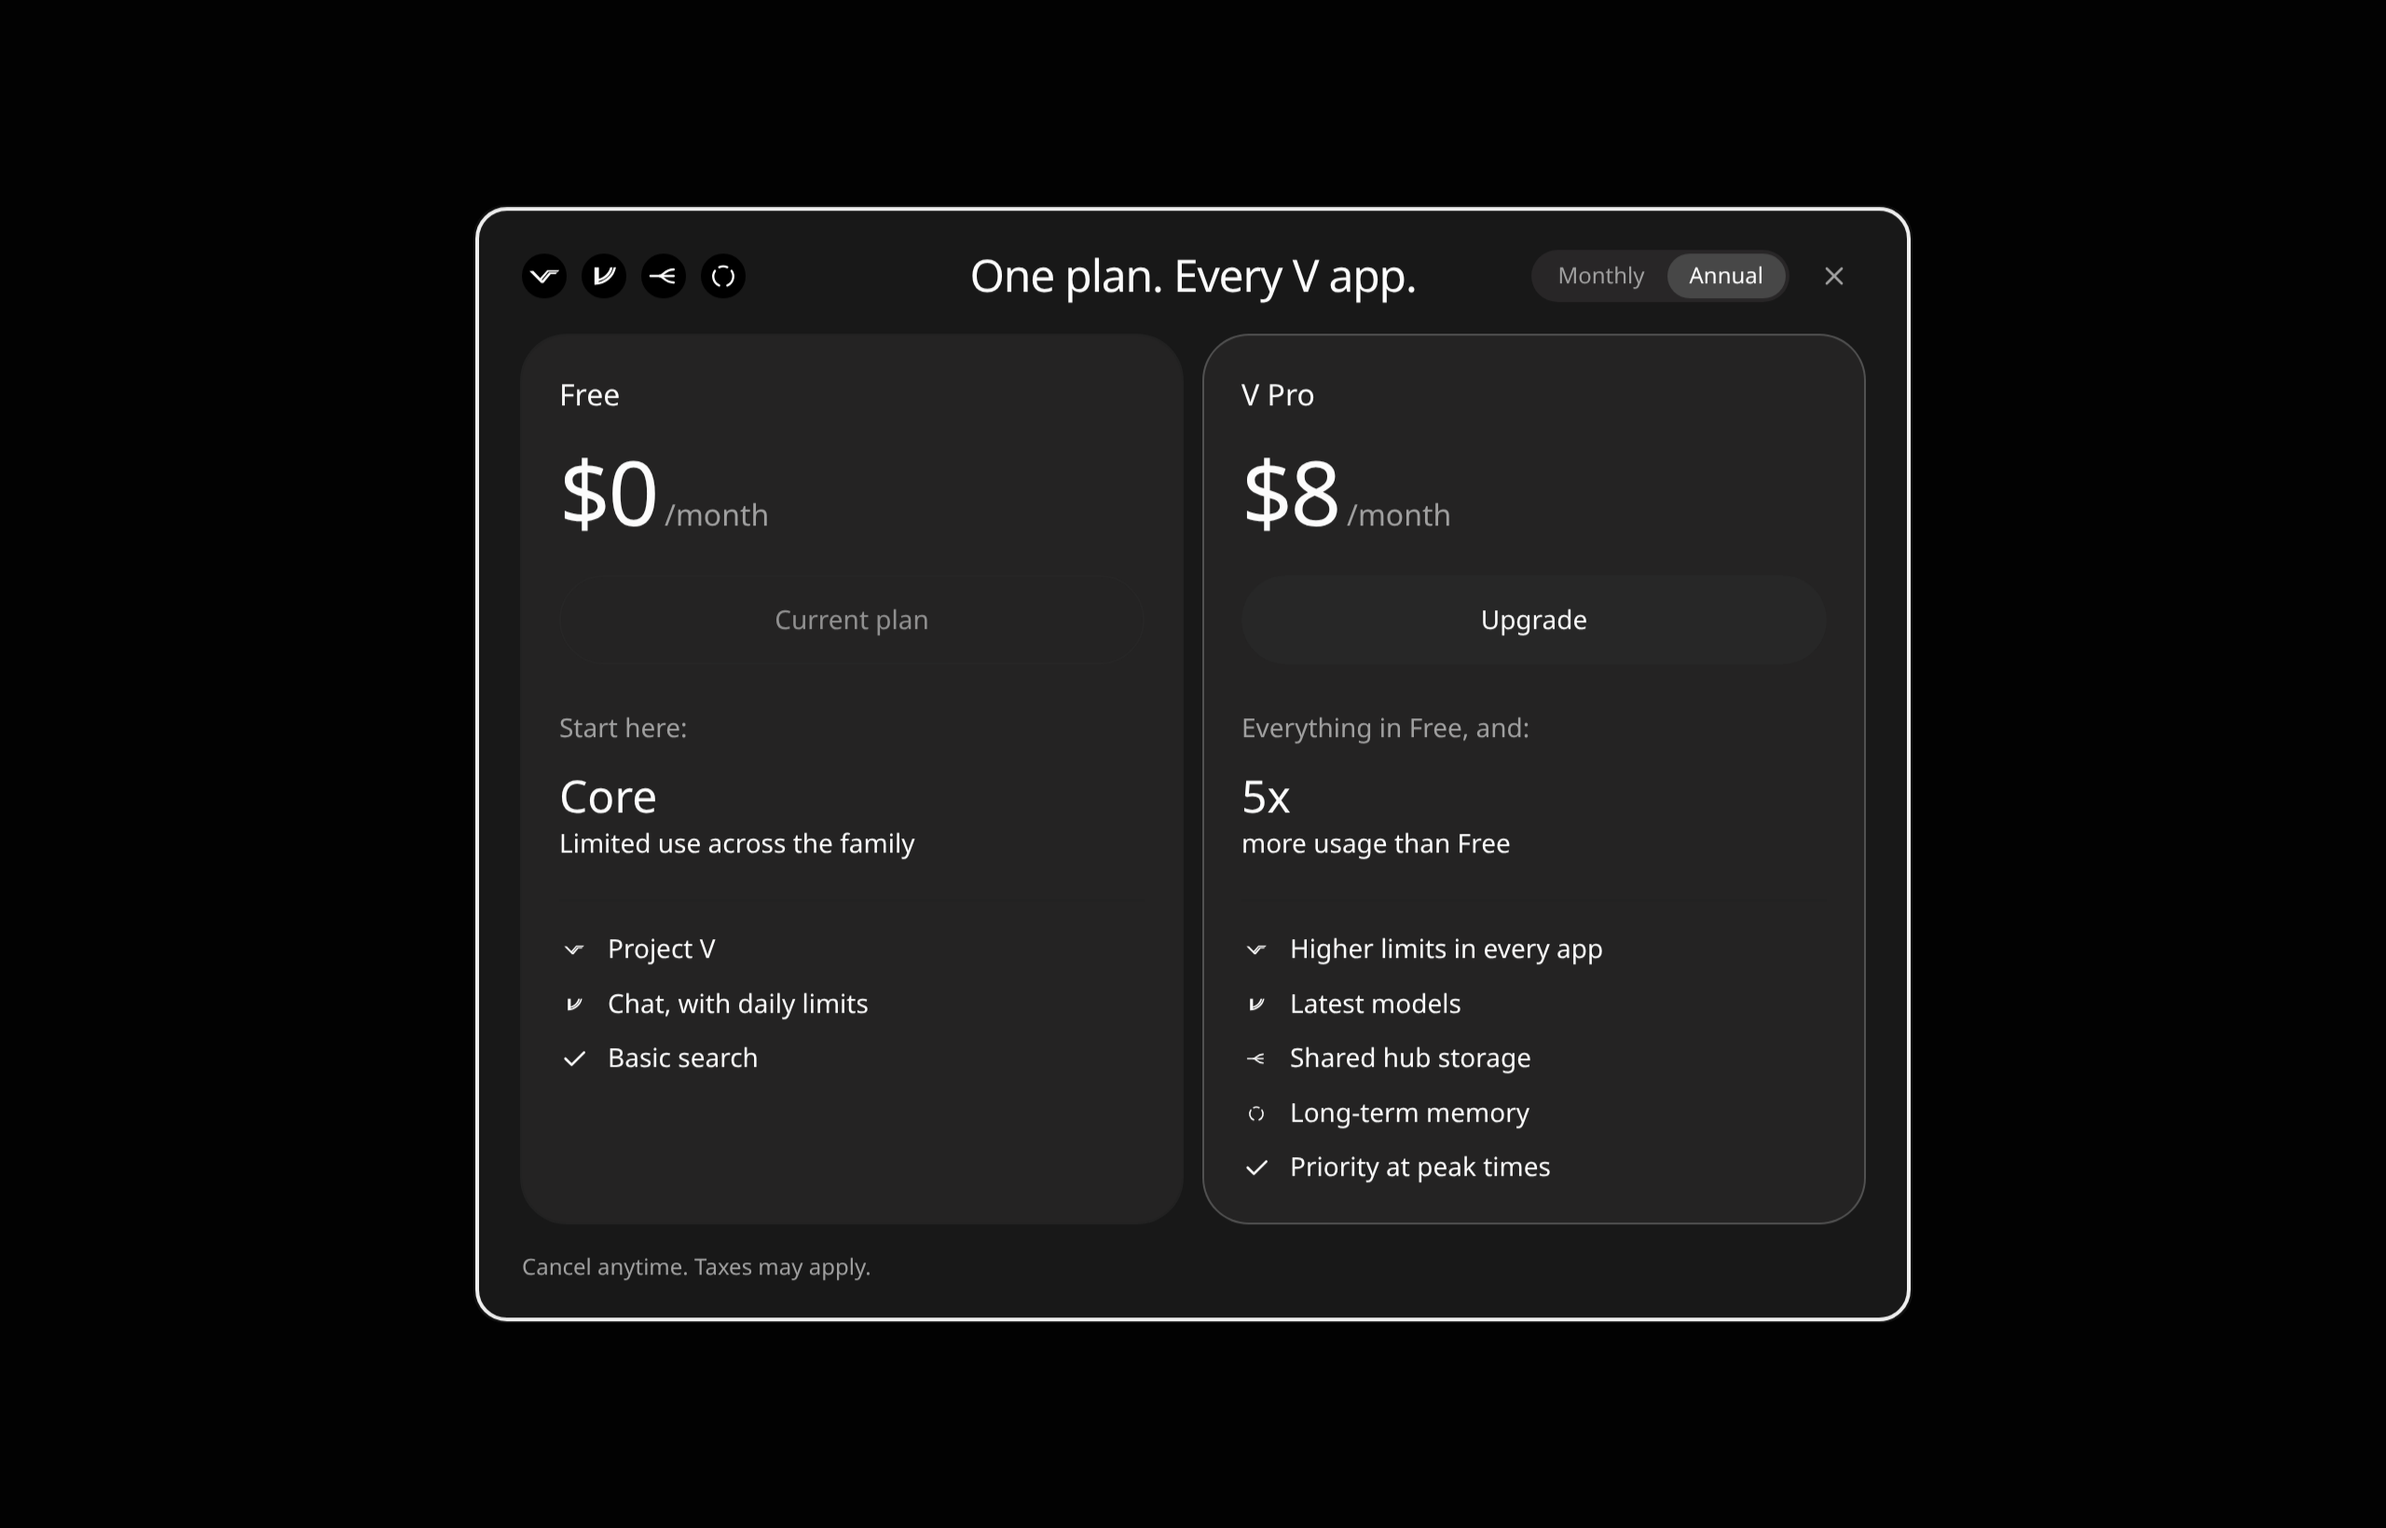
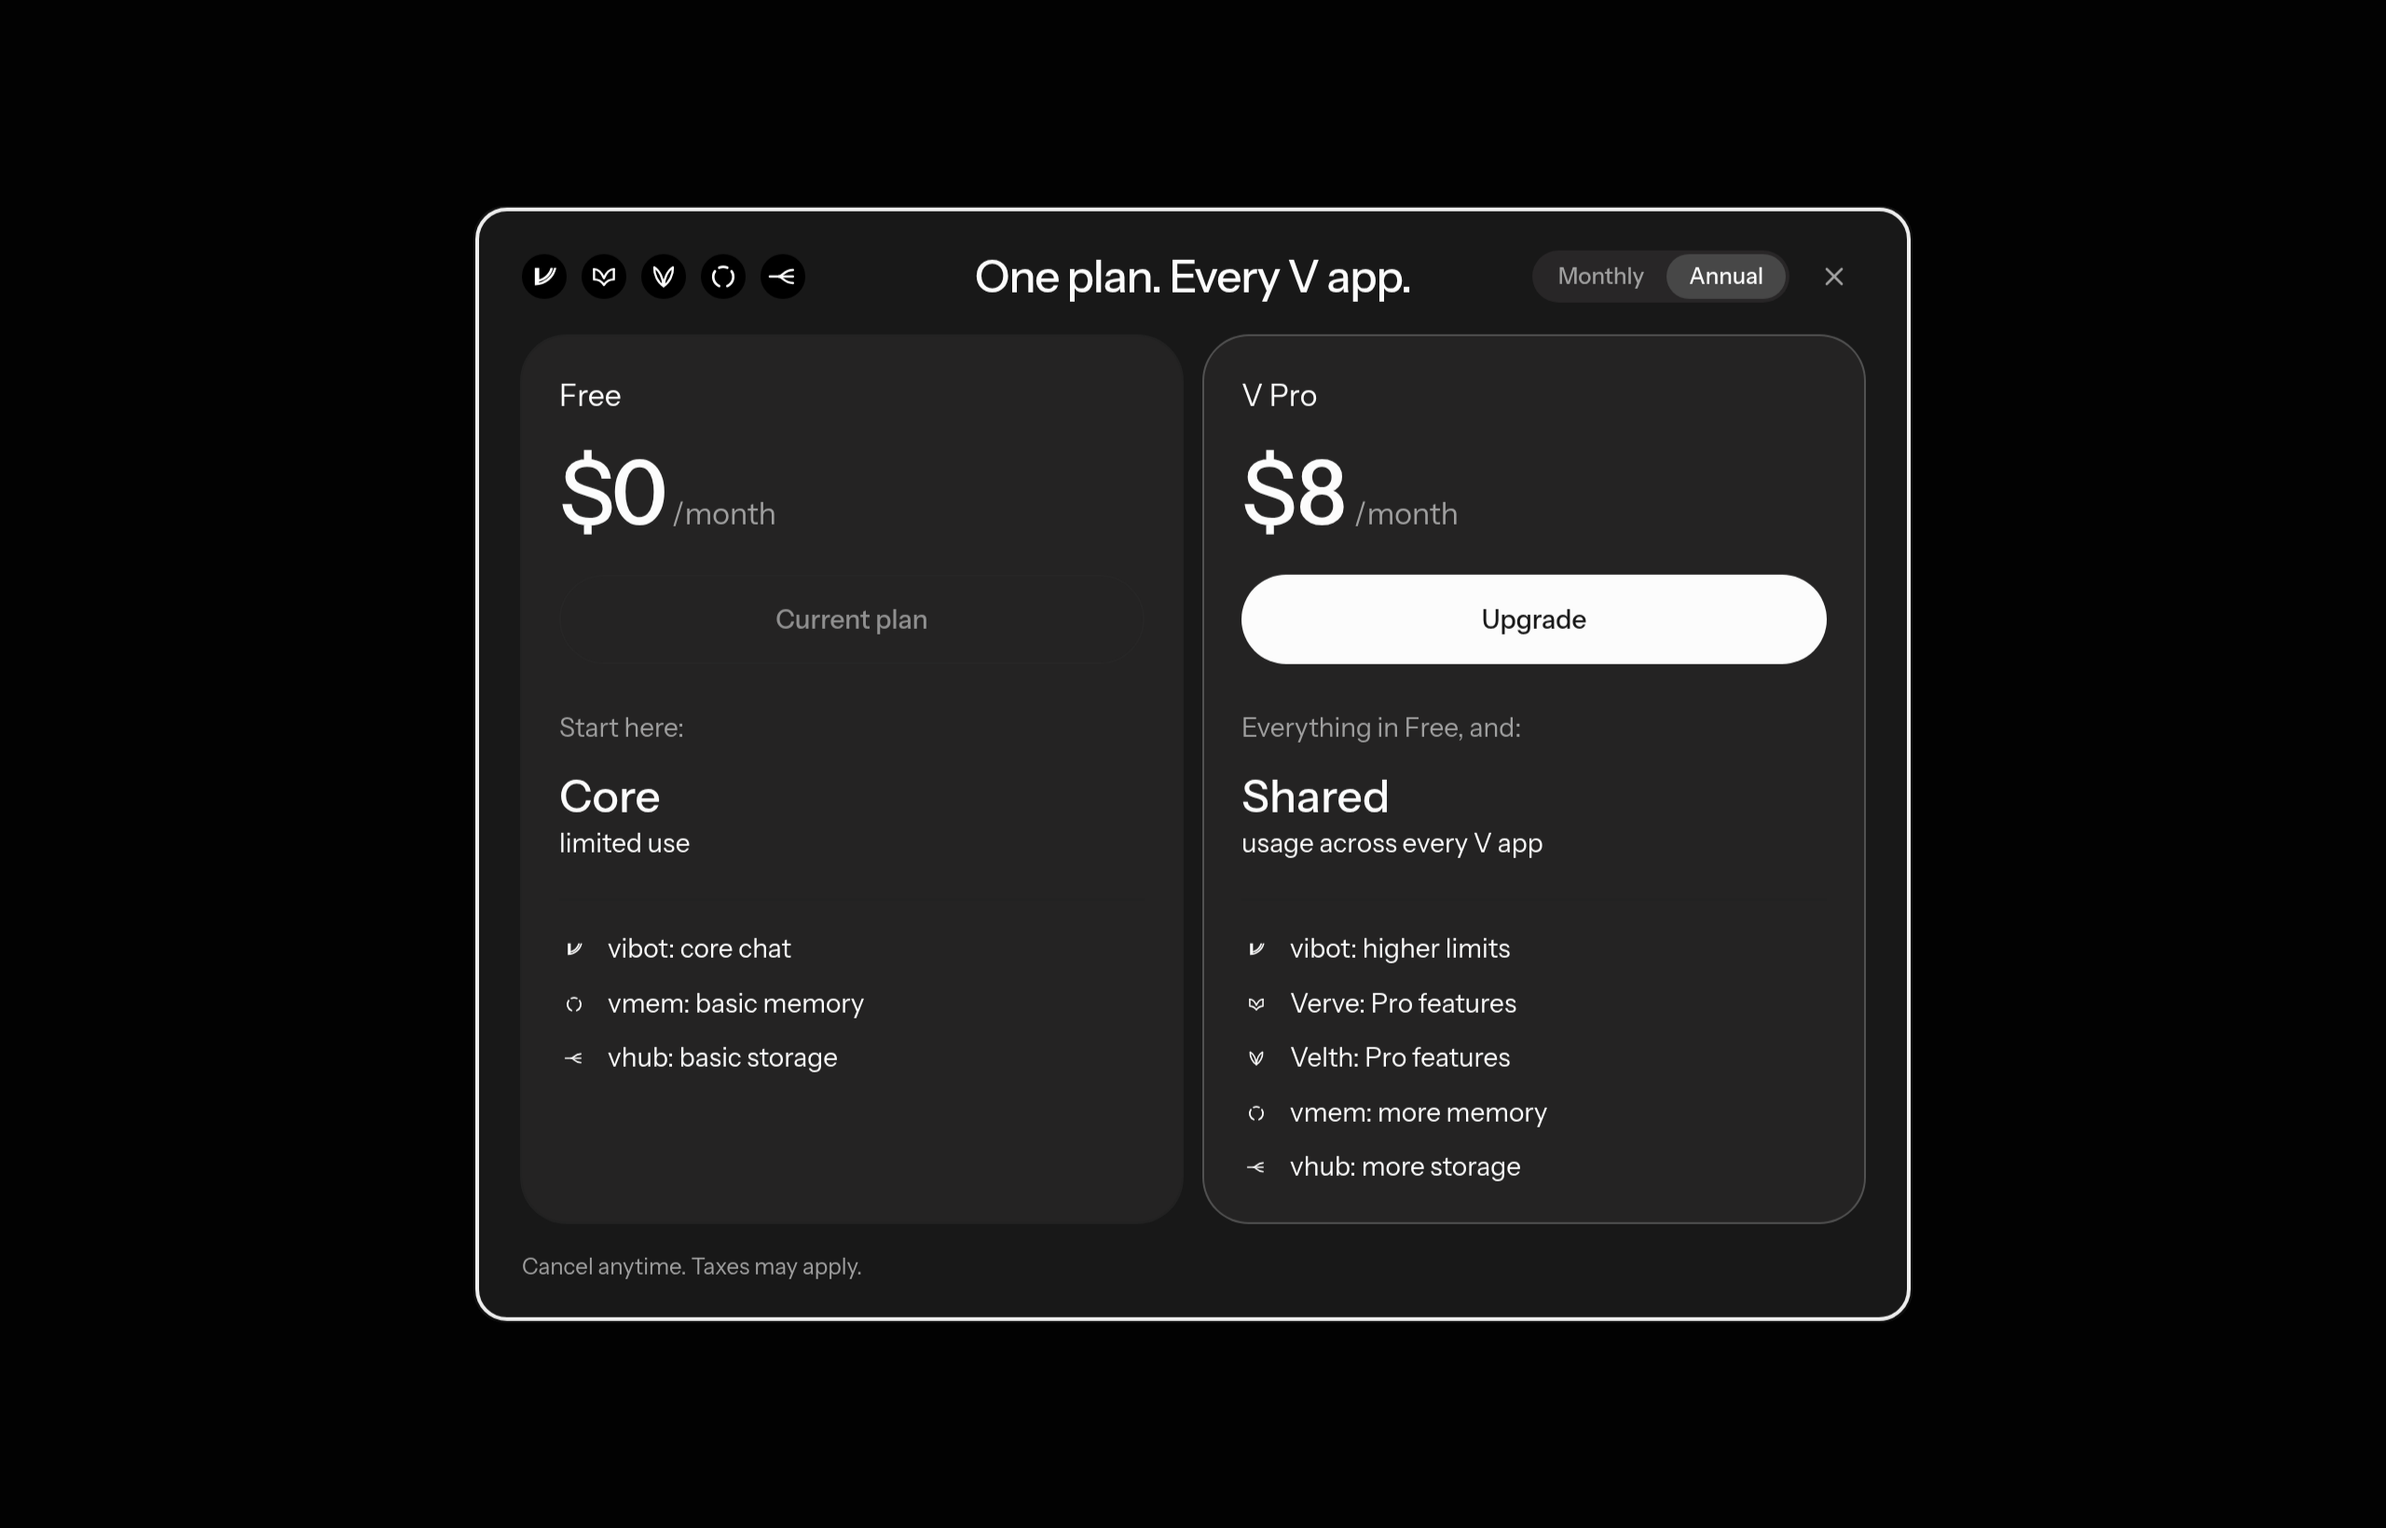
ui: PricingModal review fixes (0.22.0)
Featured plan CTA is solid primary. Demo copy is neutral with five apps.
Screenshot harness loads Instrument Sans. Screenshots re-taken.

diff --git a/packages/ui/src/marketing/PricingModal.test.tsx b/packages/ui/src/marketing/PricingModal.test.tsx
@@ -66,7 +66,7 @@ const multi: PricingModalMultiProps = {
   open: true,
   onClose: () => undefined,
   title: "Plans",
-  apps: ["projectv", "vibot", "vhub", "vmem"],
+  apps: ["vibot", "verve", "velth", "vmem", "vhub"],
   headline: "One plan. Every V app.",
   finePrint: "Cancel anytime. Taxes may apply.",
   plans: [
@@ -78,7 +78,7 @@ const multi: PricingModalMultiProps = {
       ctaLabel: "Upgrade",
       featured: true,
       intro: "Everything in Free, and:",
-      highlight: { title: "5x", description: "more usage" },
+      highlight: { title: "Shared", description: "usage across every V app" },
       benefits: [{ label: "Chat", icon: "vibot" }, { label: "Dim", muted: true }],
     },
   ],
@@ -103,7 +103,7 @@ describe("PricingModal multi-plan", () => {
     expect(text).toContain("Everything in Free, and:");
     expect(text).toContain("/month");
     const marks = [...document.body.querySelectorAll("[data-testid='pricing-apps'] svg")];
-    expect(marks.map((m) => m.getAttribute("data-app"))).toEqual(["projectv", "vibot", "vhub", "vmem"]);
+    expect(marks.map((m) => m.getAttribute("data-app"))).toEqual(["vibot", "verve", "velth", "vmem", "vhub"]);
     expect(document.body.querySelector("[role='dialog']")?.textContent).toContain("Close");
   });
 
@@ -128,6 +128,8 @@ describe("PricingModal multi-plan", () => {
     expect(current.className).toContain("border");
     expect(renderCheckout.mock.calls.every(([, plan]) => plan.id !== "free")).toBe(true);
     expect(pick("Upgrade")?.hasAttribute("disabled")).toBe(false);
+    expect(pick("Upgrade")?.className).toContain("bg-primary");
+    expect(current.className).not.toContain("bg-primary");
   });
 
   it("works uncontrolled and controlled", async () => {

diff --git a/packages/ui/src/marketing/PricingModal.tsx b/packages/ui/src/marketing/PricingModal.tsx
@@ -331,17 +331,17 @@ function PricingModalMulti({
 
         <div className={`grid grid-cols-1 gap-3 px-4 sm:px-6 ${multiColumns[count]}`}>
           {plans.map((plan) => {
+            const emphasised = plan.featured ?? plan.highlighted;
             const button = (
               <Button
                 size="lg"
-                variant={plan.current ? "outline" : "secondary"}
+                variant={plan.current ? "outline" : emphasised ? "default" : "secondary"}
                 disabled={plan.current}
                 className="h-12 w-full rounded-full"
               >
                 {plan.current ? "Current plan" : (plan.ctaLabel ?? "Get started")}
               </Button>
             );
-            const emphasised = plan.featured ?? plan.highlighted;
             return (
               <section
                 key={plan.id}

diff --git a/packages/ui/README.md b/packages/ui/README.md
@@ -890,14 +890,18 @@ price is the per-month price). `ctaLabel` defaults to "Get started". `featured`
 (or `highlighted`) adds a subtle ring. A `current` plan shows a disabled,
 outlined "Current plan" button and does not call `renderCheckout`.
 
+The `featured` plan's button is a solid primary button (`Button` `variant="default"`). Other plans use `secondary`.
+
 `renderCheckout(button, plan, period)` wraps each plan's button.
+
+Each app passes its own plan names, prices and copy. The example and the screenshots use placeholder text only.
 
 ```tsx
 <PricingModal
   open={open}
   onClose={close}
   title="Plans"
-  apps={["projectv", "vibot", "vhub", "vmem"]}
+  apps={["vibot", "verve", "velth", "vmem", "vhub"]}
   headline="One plan. Every V app."
   finePrint="Cancel anytime. Taxes may apply."
   plans={[
@@ -908,8 +912,14 @@ outlined "Current plan" button and does not call `renderCheckout`.
       price: { month: "$10", year: "$8" },
       featured: true,
       intro: "Everything in Free, and:",
-      highlight: { title: "5x", description: "more usage than Free" },
-      benefits: [{ label: "Higher limits" }, { label: "Chat", icon: "vibot" }],
+      highlight: { title: "Shared", description: "usage across every V app" },
+      benefits: [
+        { label: "Higher limits", icon: "vibot" },
+        { label: "Pro features", icon: "verve" },
+        { label: "Pro features", icon: "velth" },
+        { label: "More memory", icon: "vmem" },
+        { label: "More storage", icon: "vhub" },
+      ],
     },
   ]}
   renderCheckout={(button, plan, period) => (

diff --git a/packages/ui/CHANGELOG.md b/packages/ui/CHANGELOG.md
@@ -7,6 +7,8 @@
 - In multi-plan mode `renderCheckout(button, plan, period)` gets the plan and the period. `billingPeriod`, `onBillingPeriodChange` and `defaultBillingPeriod` work as in 0.20.0 (the switch is always shown).
 - New types `PricingPlan`, `PricingPlanBenefit`, `PricingModalLegacyProps` and `PricingModalMultiProps`. `PricingModalProps` is now the union of the two prop sets.
 - Migration: callers without `plans` render the previous single-plan layout with the same DOM, so nothing changes for them. Their `renderCheckout(button, period)` keeps its signature. Code that read `PricingModalProps["renderCheckout"]` should use `PricingModalLegacyProps` (or `PricingModalMultiProps`) instead, as the union has two function types.
+- The `featured` plan's upgrade button is a solid primary button. Other plans stay secondary.
+- Screenshot harness loads Instrument Sans and uses neutral placeholder copy with five apps (`vibot`, `verve`, `velth`, `vmem`, `vhub`). Apps pass their own copy.
 - New `scripts/build-pricing-screenshots.mjs` (dev only) and `brand/pricing-modal/*.png`: 2-card layout in dark and light, monthly and annual, plus a narrow stacked view.
 
 ## 0.21.0
